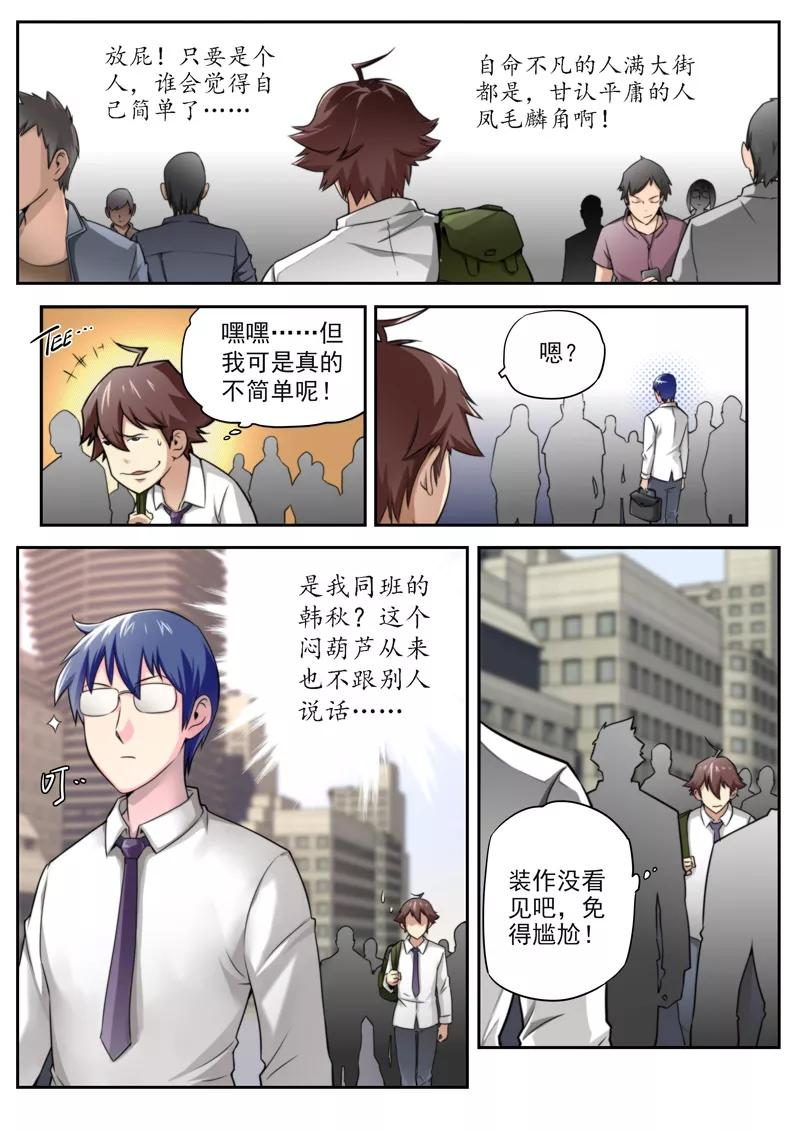
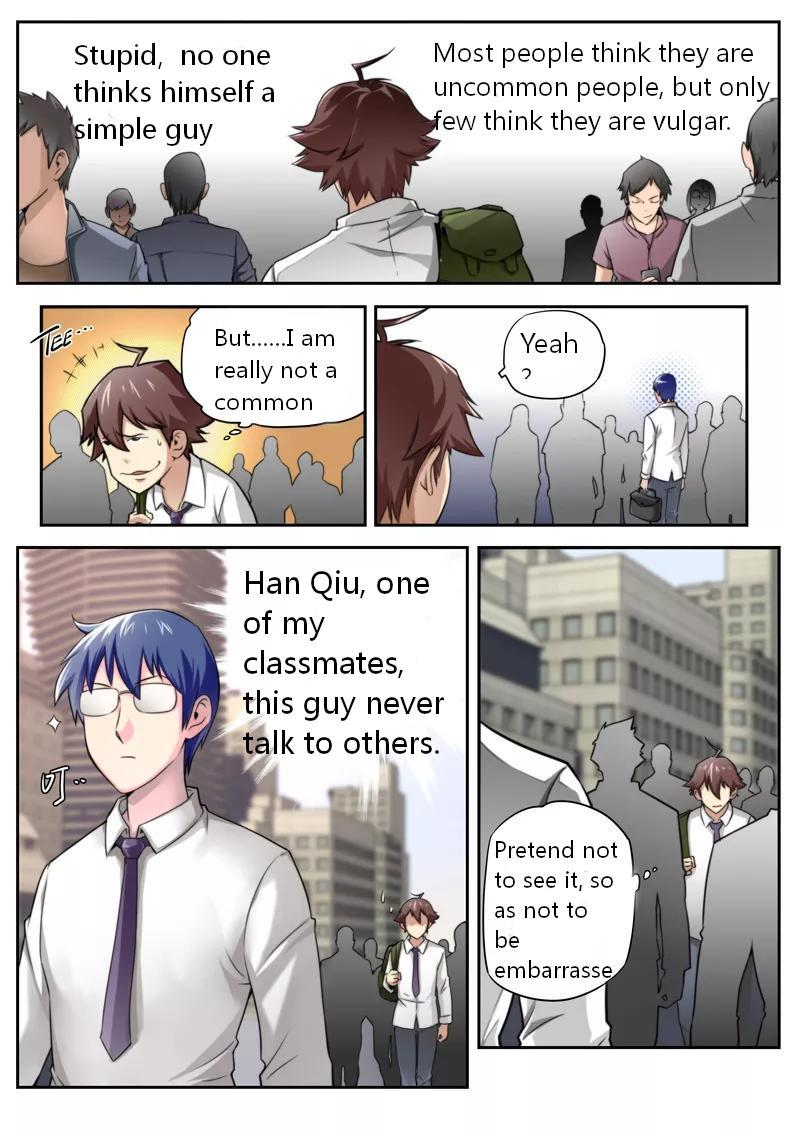
God At Random chapter 10

diff --git a/12431/README.md b/12431/README.md
@@ -11,7 +11,7 @@
 - [Chapter 7](./7/README.md)
 - [Chapter 8](./8/README.md)
 - [Chapter 9 (translated)](./9/README.md)
-- [Chapter 10](./10/README.md)
+- [Chapter 10 (translated)](./10/README.md)
 - [Chapter 11](./11/README.md)
 - [Chapter 12](./12/README.md)
 - [Chapter 13](./13/README.md)

diff --git a/README.md b/README.md
@@ -8,7 +8,7 @@ Enjoy it. 😏 😏 😏
 
 The following comics are being updated and translated
 
--   [God At Random 兼职神仙](./12431/README.md) \(Chapter 9\)
+-   [God At Random 兼职神仙](./12431/README.md) \(Chapter 10\) 🔥
 
 ## Youtube ![youtube](./icons/youtube.png)
 
